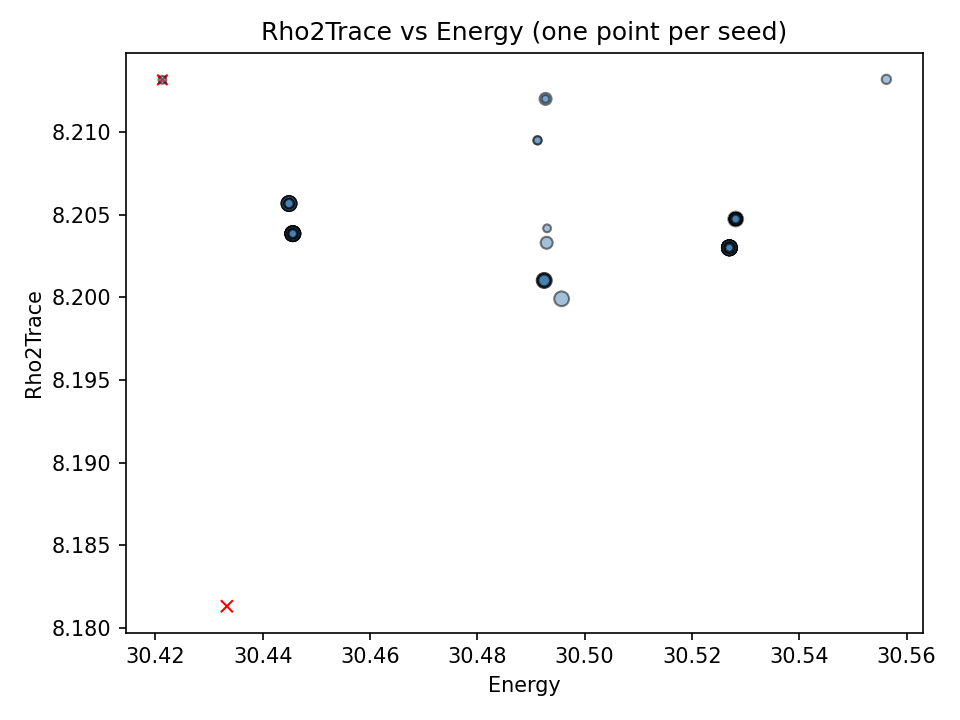
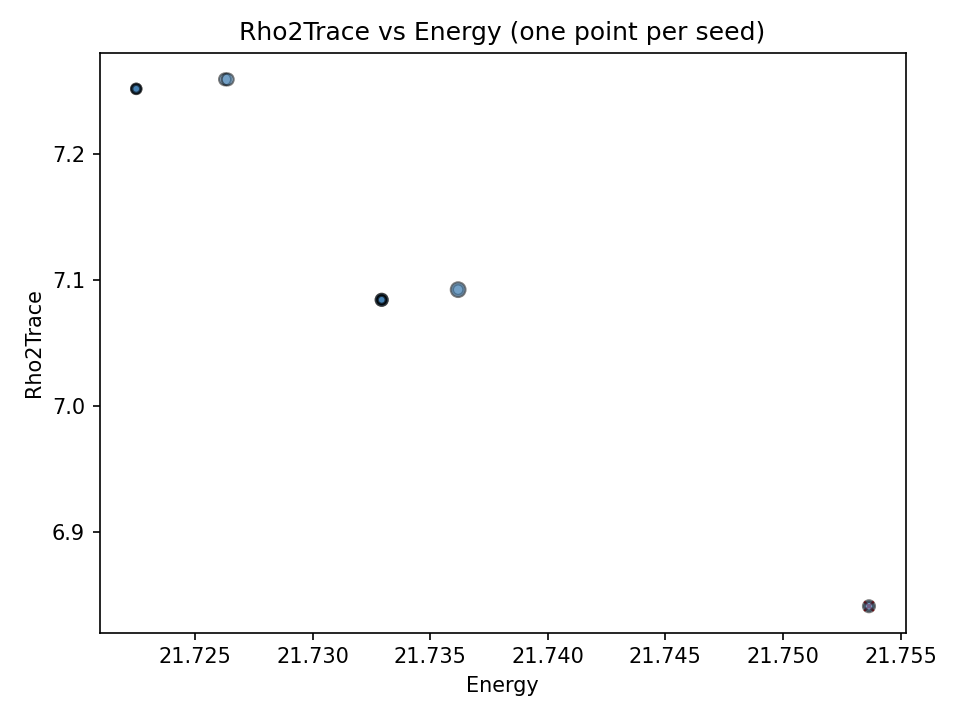
Ground state comparison cleanup

diff --git a/scf.cpp b/scf.cpp
@@ -953,10 +953,14 @@ KanamoriResult runKanamoriSCF(const Mat12& rho0, double alpha, int grid_size,
 
                 rho = rho_next;
             }
-        } else if (!using_diis) {
+        } 
+        // ====== Linear Mix ======
+        else if (!using_diis) {
             if (linear_remaining > 0) --linear_remaining;
             rho = alpha * rho_new + (1.0 - alpha) * rho;
-        } else {
+        } 
+        // ====== DIIS ====== 
+        else {
             // Track improvement; on stall, do linear_reset_steps of linear mixing then retry DIIS.
             if (diff < best_diis_diff) {
                 best_diis_diff  = diff;
@@ -977,7 +981,7 @@ KanamoriResult runKanamoriSCF(const Mat12& rho0, double alpha, int grid_size,
                 continue;
             }
 
-            // Pulay DIIS
+            // ===== Pulay DIIS ====
             diis_rho.push_back(rho_new);
             diis_err.push_back(rho_new - rho);
 
@@ -1265,11 +1269,23 @@ int find_gs(double alpha, int grid, double T, double N_target, Params p, Kanamor
         return -1;
     }
 
-    auto minIt = std::min_element(energies.begin(), energies.end());
-    size_t minIdx = std::distance(energies.begin(), minIt);
+    size_t minIdx = seeds.size();  // sentinel: "not found yet"
+    double bestEnergy = std::numeric_limits<double>::infinity();
+
+    for (size_t i = 0; i < energies.size(); ++i) {
+        double e = energies[i];
+
+        if (e == 0.0) {
+            continue;  // non-convergence, skip this seed
+        }
+
+        if (e < bestEnergy) {
+            bestEnergy = e;
+            minIdx = i;
+        }
+    }
 
     int bestSeed = seeds[minIdx];
-    double bestEnergy = *minIt;
     std::cout << "Best seed: " << bestSeed << " with energy: " << bestEnergy << "\n";
     return bestSeed;
 

diff --git a/main.cpp b/main.cpp
@@ -121,11 +121,12 @@ int main(int argc, char* argv[]) {
 
     //
     int best_seed = -9999;
-    best_seed = find_gs(scf.alpha, scf.grid, scf.T, scf.N_target, p, kp, 1000, 1000);
+    best_seed = find_gs(scf.alpha, scf.grid, scf.T, scf.N_target, p, kp, 30, 1000);
     
     //gsprintout(0, scf.alpha, scf.grid, scf.T, scf.N_target, p, kp, 30, 1000);
     
-    //if (best_seed >= 0){
+    
+    //if (best_seed >= -6){
     //    gsprintout(best_seed, scf.alpha, scf.grid, scf.T, scf.N_target, p, kp, 30, 1000);
     //}
 
